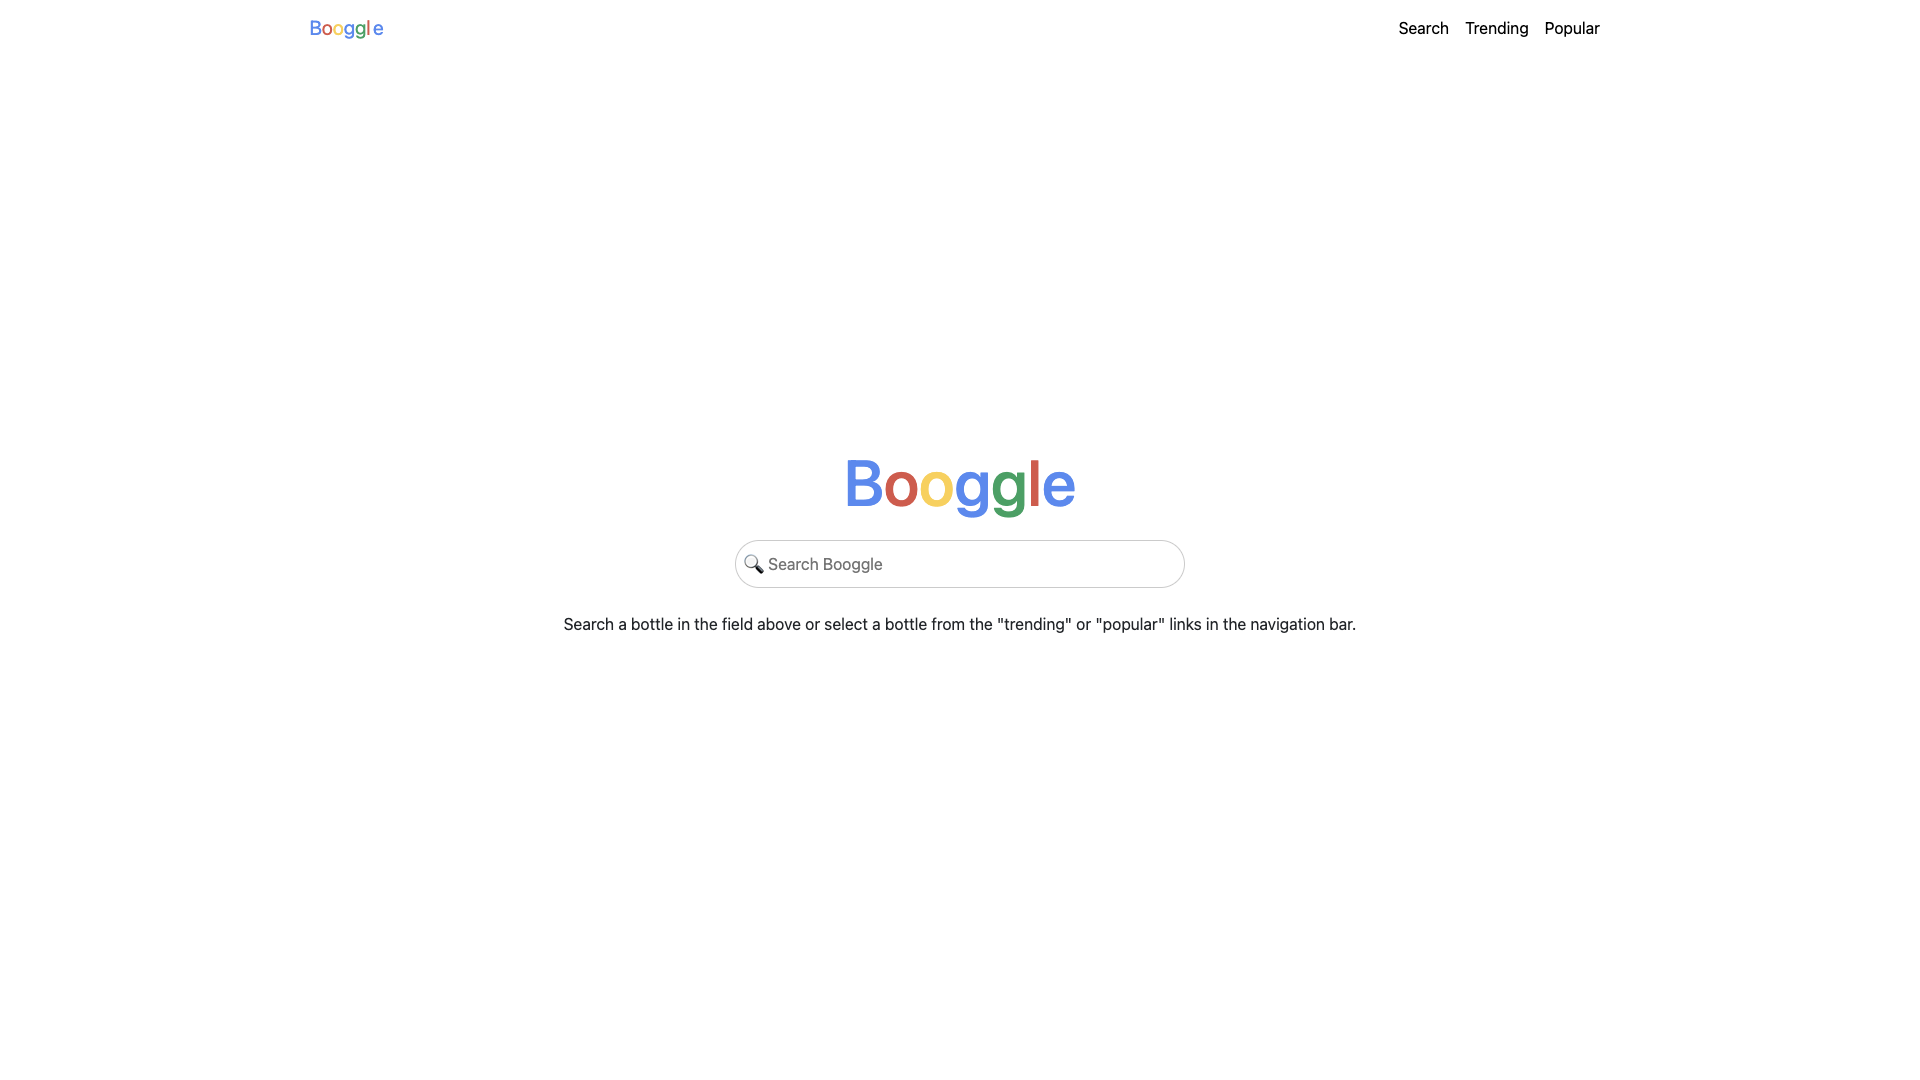
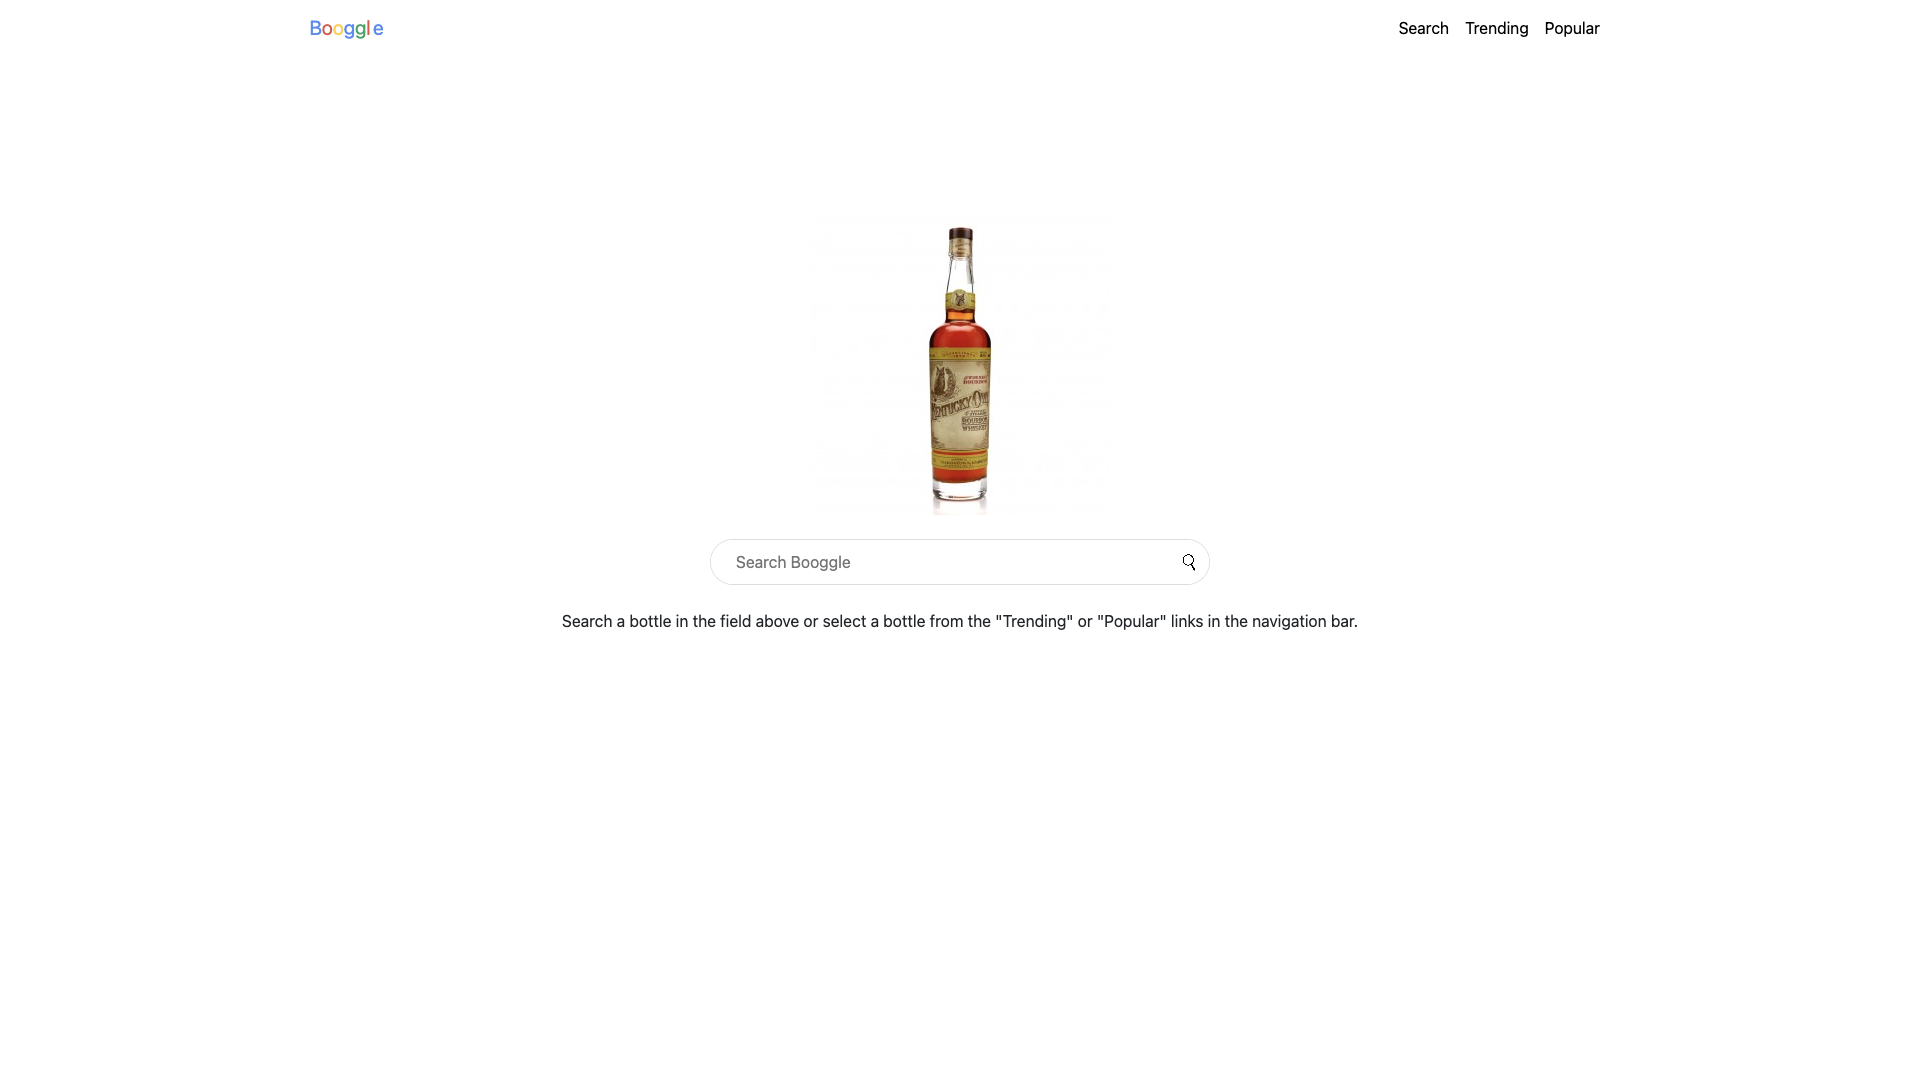
Updated booggle and lemonpy photos to incclude home screen and comments section

Changed region(s): [[0.4375, 0.2139, 0.5625, 0.4889], [0.2812, 0.4889, 0.7188, 0.5806]]

diff --git a/templates/index.html b/templates/index.html
@@ -76,7 +76,7 @@
                                 class="fas fa-plus fa-3x"></i>
                         </div>
                     </div>
-                    <img class="img-fluid img-main-pg" id="rcorners1" src="static/assets/img/portfolio/booggle-home.png" alt="..."/>
+                    <img class="img-fluid img-main-pg" id="rcorners1" src="static/assets/img/portfolio/booggle-home-new.png" alt="..."/>
                 </div>
             </div>
             <div class="ptf-img-space"></div>
@@ -88,7 +88,7 @@
                         <div class="portfolio-item-caption-content text-center text-white"><i
                                 class="fas fa-plus fa-3x"></i></div>
                     </div>
-                    <img class="img-fluid img-main-pg img-border" id="rcorners2" src="static/assets/img/portfolio/lemonpy-home.png" alt="..."/>
+                    <img class="img-fluid img-main-pg img-border" id="rcorners2" src="static/assets/img/portfolio/lemonpy-home-new.png" alt="..."/>
                 </div>
             </div>
             <div class="ptf-img-space"></div>
@@ -158,12 +158,12 @@
                             <p class="mb-4">
                                 I collect rare whiskey. Unfortunately, it's difficult to find secondary pricing data. I
                                 created Booggle to help fellow enthusiasts value their collections. This tool scrapes and
-                                plots sales data. Built with Django, hosted on AWS using Postgres DB Engine. Still a
-                                work in progress... Cheers 🥃
+                                plots sales data after calling a REST API to convert currency to US Dollars. Built with
+                                Django, hosted on AWS using Postgres DB Engine. Cheers 🥃
                             </p>
 
                             <p class="p-skill-tags">
-                                Django • AWS • PostgreSQL • CSS • HTML • Pandas • Matplotlib
+                                Django • AWS • PostgreSQL • REST API • Pandas • Matplotlib * CSS
                             </p>
 
                             <a href="https://booggle-finance.com" target=”_blank”>https://booggle-finance.com
@@ -211,8 +211,8 @@
                             <p class="mb-4">
                                 This blog highlights my love for lemon pie and Python programming. Built with Django.
                                 Hosted on AWS EBS with load balancing. Using AWS RDS PostgresSQL database engine.
-                                Features include login/logout functions, link to change password and a like management
-                                system.
+                                Features include login/logout functions, link to change password, ability for users to
+                                like and comment on posts.
                             </p>
 
                             <p class="p-skill-tags">
@@ -230,7 +230,7 @@
 
 
                             <!-- Portfolio Modal - Image-->
-                            <img class="img-fluid rounded mb-5" src="static/assets/img/portfolio/lemonpy-post.png" alt="...">
+                            <img class="img-fluid rounded mb-5" src="static/assets/img/portfolio/pie-with-comments.png" alt="...">
                             <img class="img-fluid rounded mb-5" src="static/assets/img/portfolio/lemonpy-login.png" alt="...">
 
 
